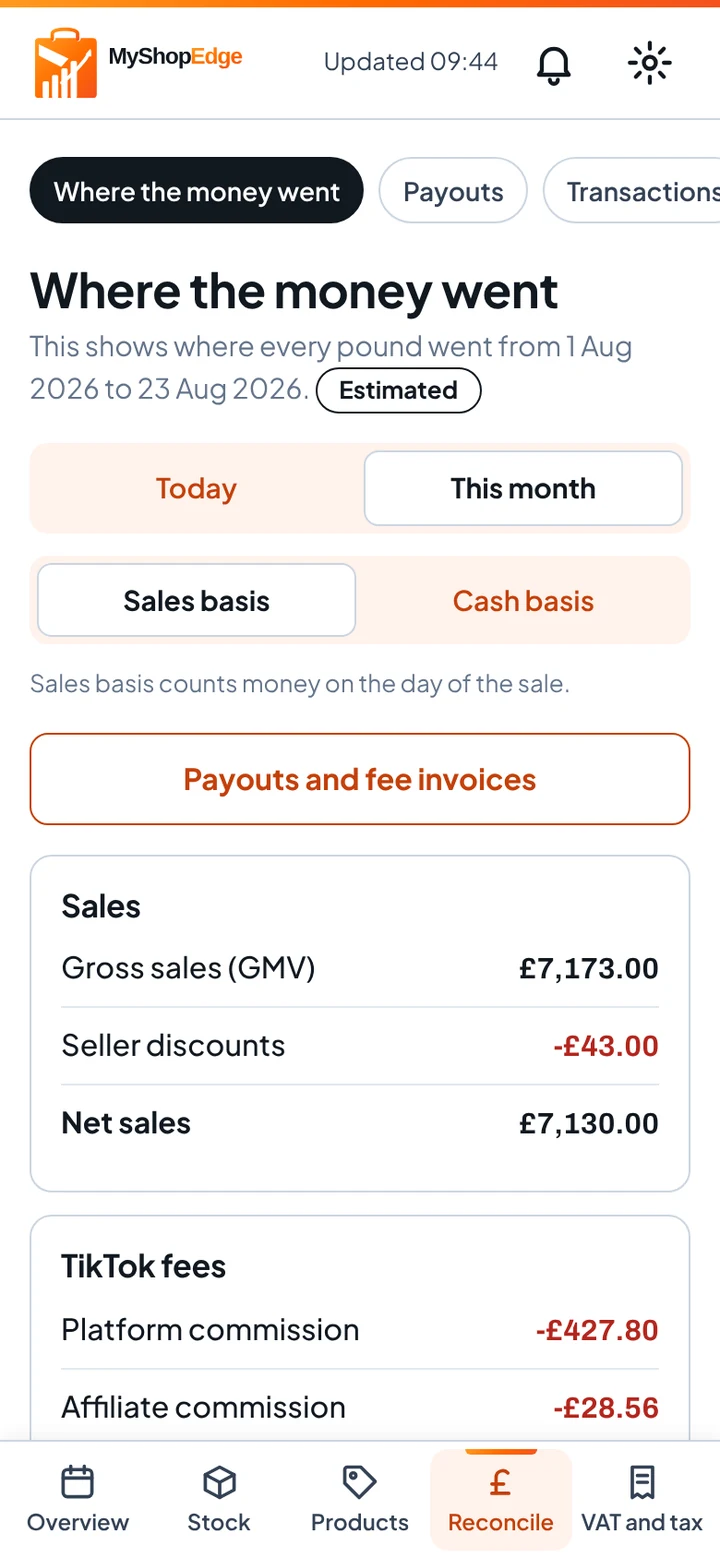
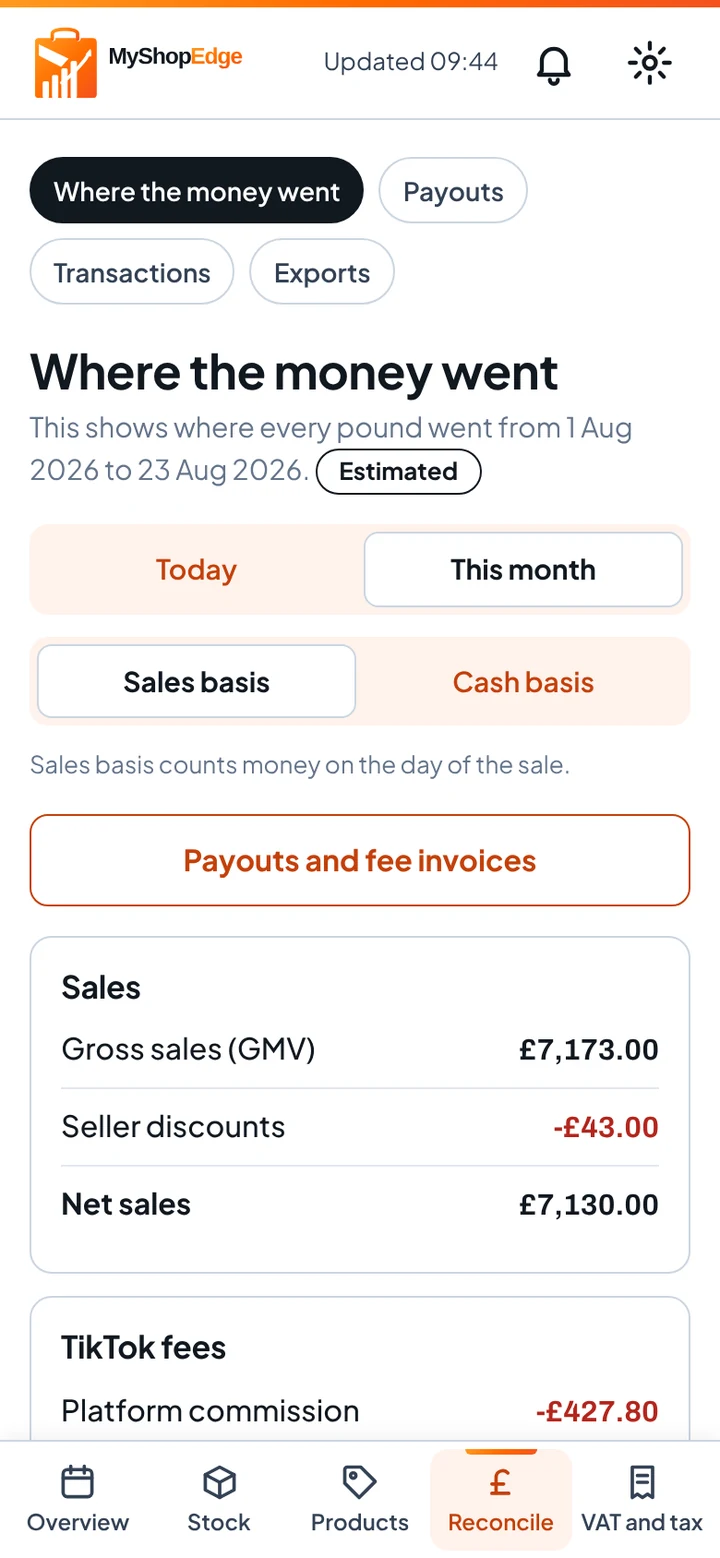
Wrap the phone page tabs and retake the four cut screenshots
On a 390 px phone the row of page tabs on Reconcile and VAT and tax was about
510 px wide and scrolled off the right edge, which cut three landing page
screenshots. On the owner's ruling the row now wraps onto a second line. The
cost box hint "For example 3.40" was cut to "For examp" and now reads "3.40".
The hero, exports, tax and cost typing images are retaken from the showcase
shop.

Claude-Session: https://claude.ai/code/session_012aMiKMfksUffecLwDKmvEP

diff --git a/web/src/app/globals.css b/web/src/app/globals.css
@@ -266,18 +266,19 @@ a:hover { color: var(--orange-700); }
    the page. */
 .tabs__area--settings, .tabs__pages { display: none; }
 
-/* The pages of an area, on a phone: a row of chips that scrolls sideways if it must. */
+/* The pages of an area, on a phone: a row of chips that wraps onto a second line when it
+   does not fit. Until 10 October 2026 the row scrolled sideways, which hid the last page off
+   the edge of a 390 px screen on Reconcile and VAT and tax; the owner ruled that every page
+   should be visible. */
 .subnav { margin: calc(-1 * var(--space-2)) calc(-1 * var(--space-4)) var(--space-4); }
 .subnav ul {
   list-style: none;
   margin: 0;
   padding: var(--space-1) var(--space-4);
   display: flex;
+  flex-wrap: wrap;
   gap: var(--space-2);
-  overflow-x: auto;
-  scrollbar-width: none;
 }
-.subnav ul::-webkit-scrollbar { display: none; }
 .subnav li { flex: none; }
 .subnav a {
   display: inline-flex;

diff --git a/web/src/components/SetupForms.jsx b/web/src/components/SetupForms.jsx
@@ -175,7 +175,7 @@ export function ManualCosts({ shopId, rows, currency }) {
               {/** @type {[string, string][]} */ ([["cost", "Product cost (£)"], ["packing", "Packaging you pay (£)"], ["postage", "Shipping you pay (£)"]]).map(([f, label]) => (
                 <div key={f}>
                   <label htmlFor={`${f}-${r.sku_id}`}>{label}</label>
-                  <input id={`${f}-${r.sku_id}`} inputMode="decimal" placeholder={f === "cost" ? "For example 3.40" : "Optional"}
+                  <input id={`${f}-${r.sku_id}`} inputMode="decimal" placeholder={f === "cost" ? "3.40" : "Optional"}
                          value={/** @type {any} */ (v)[f]} onChange={(e) => set(r.sku_id, f, e.target.value)} />
                 </div>
               ))}

diff --git a/site/README.md b/site/README.md
@@ -60,5 +60,10 @@ Revised later on 10 October 2026 after the owner's review of the page:
 - How it works follows the problem, so "See how it works" no longer jumps past every feature.
 - Product costs shows the cost question and the typing screen, so the Products screen is not
   shown twice.
+- Four screenshots were retaken after the owner reported them cut at the side:
+  `hero-money`, `exports`, `tax` and `costs-manual`. On a 390 px phone the row of page tabs on
+  Reconcile and VAT and tax ran past the right edge, and the cost box showed "For examp". On
+  the owner's ruling the app now wraps that row onto a second line, and the cost box's hint
+  reads "3.40", so the images show the app as a seller sees it.
 
 The page needs no build.
